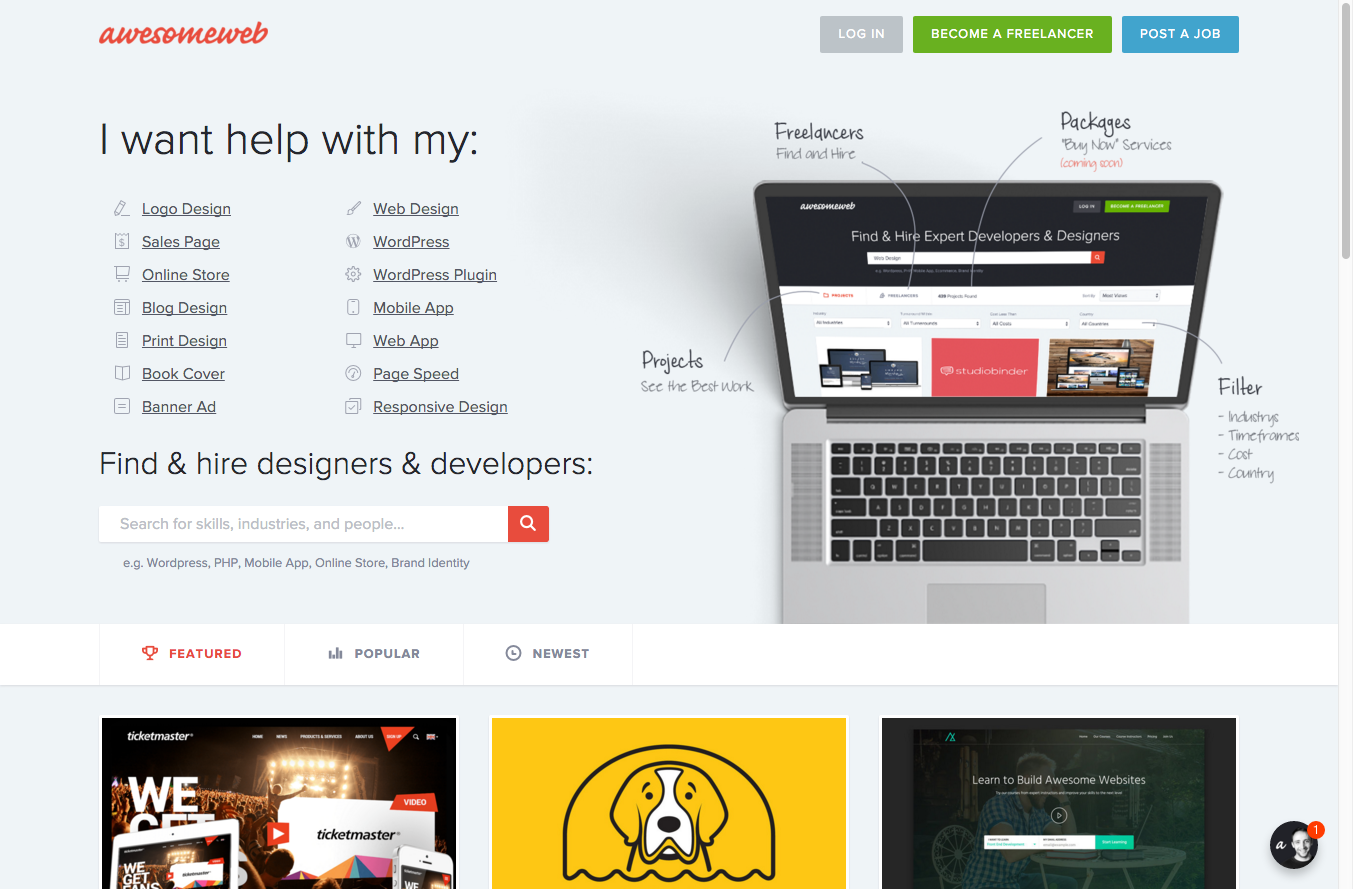
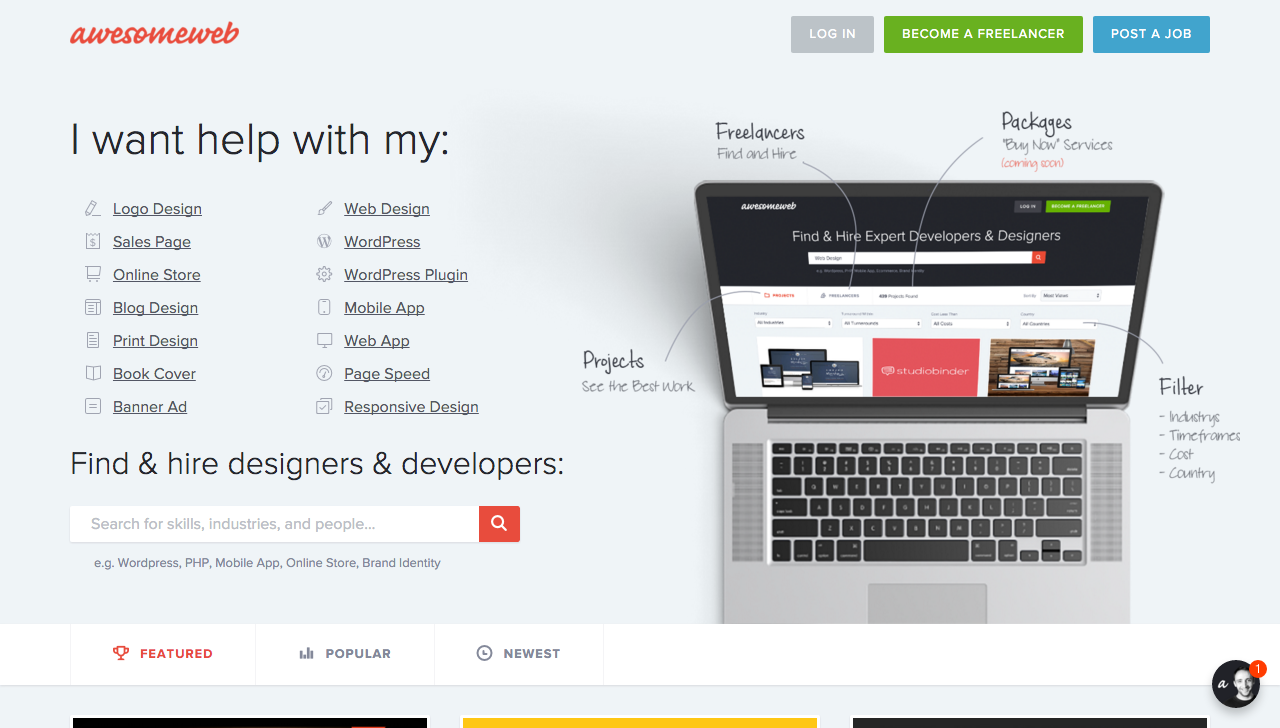
Adding aw details in

diff --git a/_portfolios/awesomeweb.html b/_portfolios/awesomeweb.html
@@ -9,27 +9,29 @@ meta:
   index: true
 ---
 
-{% img src: /uploads/portfolio/awesomeweb/homepage.png width: 1353 alt: "Screenshot of AwesomeWeb Febuary 2016" %}
+<div class="res-img">
+  <a href="https://www.awesomeweb.com/" target="_blank">
+    <img src="/uploads/portfolio/awesomeweb/homepage.png" style="max-width: 1280px;" alt="Screenshot of AwesomeWeb Febuary 2016">
+  </a>
+</div>
 
-<aside class="key-details">
-  <ul>
-    <li><a href="https://www.awesomeweb.com/" target="_blank">AwesomeWeb</a></li>
-    <li>Key Technologies: <br/>Ruby on Rails, WebSolr, Heroku, HTML5, SASS &amp; Capybara</li>
-  </ul>
-</aside>
+<h1>AwesomeWeb</h1>
 
-<section>
-  <p class="lead">AwesomeWeb a simple freelance marketplace to help clients find and hire designers and developers for their projects.</p>
-  <p>AwesomeWeb approach me in January 2015 to help build out new features &amp; improve current features.</p>
+<section class="project-details">
+  <p class="lead">AwesomeWeb is a simple freelance marketplace to help clients find and hire designers and developers for their projects.</p>
 
-  <h2>Moving Enviroment</h2>
-  <p>One of the key changes I made was moving from a single server enviroment to a PaaS enviroment. The main reasons behind this change was to allow for resouces to be focused on building out the application, and allow to allow easier scalability.</p>
-  <p>One of the tricky parts of the enviroment move was the assets, [I moved them to S3, make sure 301 redirects were in place from old URL]</p>
-  <p>We also moved our assets to be served via cloudfront which improved frontend performcne.</p>
+  <p>My main role at AwesomeWeb was to build out new ideas while maintaining current features in an agile way. It's mostly written in Ruby on Rails, but in this project I also worked with Bootstrap SASS &amp; jQuery.</p>
 
-  <h2>Improving consistency</h2>
-  <p>We used bootstrap on the site, but then we customised it and added a style guide</p>
+  <p><a href="https://www.awesomeweb.com/" target="_blank">www.awesomeweb.com</a></p>
 
-  <h2>Improving quality</h2>
-  <p>I used tools such as Codacy to monitor the quality of the code I was outputting and also loo</p>
+  <h2>Search</h2>
+  {% img src: /uploads/portfolio/awesomeweb/search.png width: 1280 alt: "The search page" %}
+
+  <p>A key piece of functionality I wrote was the search, this required Projects and Freelances to be filtered based on their relevance to the search query. To achieve this I used a mix of Apache Solr and Memcache.</p>
+
+  <h2>Landing Pages</h2>
+  {% img src: /uploads/portfolio/awesomeweb/signup-landing-page.png width: 1280 alt: "Signup landing page"%}
+
+  <p>I implemented the landing pages based upon designs provided by our designer. I then worked with the designer and project manager to really build a brilliant page that could drive sales.</p>
+
 </section>

diff --git a/_portfolios/whatdayshouldihostarecurringevent.html b/_portfolios/whatdayshouldihostarecurringevent.html
@@ -1,0 +1,24 @@
+---
+layout: portfolio
+title: What Day Should I Host A Recurring Event
+status: publish
+type: portfolios
+published: true
+meta:
+  description: Find the most suitable date for a recurring event based on your location.
+  index: true
+---
+
+<div class="res-img">
+  <a href="http://whatdayshouldihostarecurringevent.com/" target="_blank">
+    <img src="/uploads/portfolio/whatdayshouldihostarecurringevent/homepage.png" style="max-width: 1280px;" alt="Screenshot of What Day Should I Host A Recurring Event Febuary 2016">
+  </a>
+</div>
+
+<h1>What Day Should I Host A Recurring Event</h1>
+
+<section class="project-details">
+  <p class="lead">Find the most suitable date for a recurring event based on your location.</p>
+
+  <p>I was the developer, I worked with Lilian on this one.</p>
+</section>

diff --git a/_sass/pages/_portfolio.scss b/_sass/pages/_portfolio.scss
@@ -1,22 +1,12 @@
 .portfolio {
-  margin-top: 21px;
+  padding-top: 30px;
+  overflow: hidden;
 
   .lead {
     font-weight: bold;
   }
-}
 
-.key-details {
-  float: left;
-  width: 30%;
-  margin-right: 3%;
-
-  ul {
-    list-style: none;
-    padding-left: 0;
-  }
-
-  li {
-    margin-bottom: 6px;
+  h1 {
+    text-align: center;
   }
 }

diff --git a/_layouts/portfolio.html b/_layouts/portfolio.html
@@ -17,11 +17,8 @@ layout: default
 }
 </script>
 
-<div>
-  {% include partials/page_title.html %}
-  
-  <div class="container portfolio">
+<div class="container">
+  <div class="portfolio">
     {{ content }}
   </div>
-
 </div>
